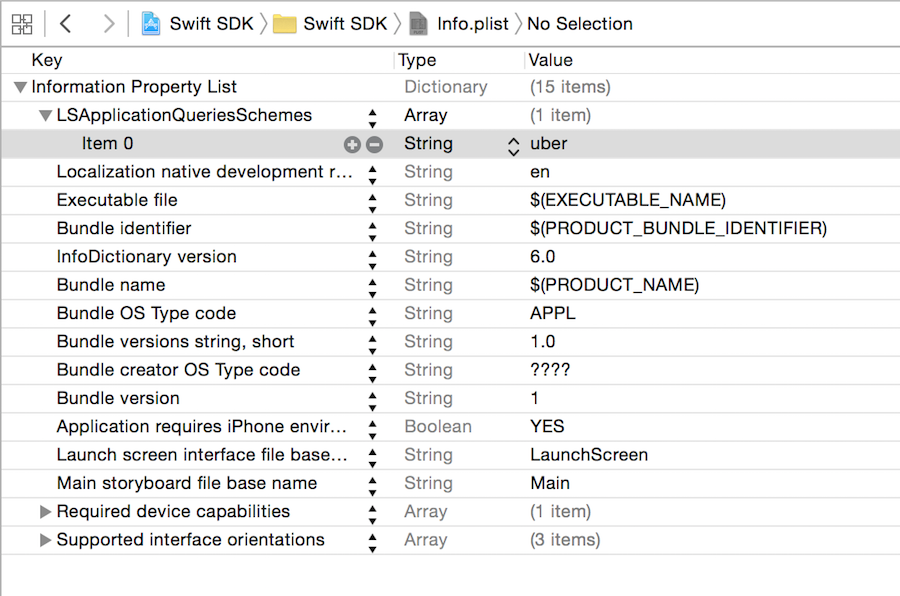
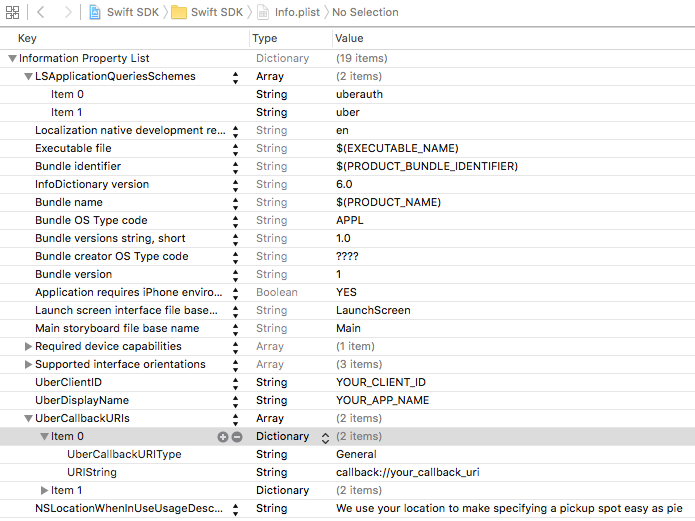
Updating sample app build steps & instructions

Changed region(s): [[0.0, 0.0, 1.0, 1.0]]

diff --git a/examples/Swift SDK/Swift SDK/NativeLoginExampleViewController.swift b/examples/Swift SDK/Swift SDK/NativeLoginExampleViewController.swift
@@ -43,6 +43,9 @@ public class NativeLoginExampleViewController: ButtonExampleViewController, Logi
         whiteLoginButton.colorStyle = .White
         
         super.init(nibName: nibNameOrNil, bundle: nibBundleOrNil)
+
+        blackLoginButton.presentingViewController = self
+        whiteLoginButton.presentingViewController = self
         
         blackLoginButton.delegate = self
         whiteLoginButton.delegate = self
@@ -97,7 +100,7 @@ public class NativeLoginExampleViewController: ButtonExampleViewController, Logi
     
     public func loginButton(button: LoginButton, didLogoutWithSuccess success: Bool) {
         if success {
-            showMessage("Saved access token!")
+            showMessage("Logout")
         }
     }
     

diff --git a/README.md b/README.md
@@ -254,7 +254,7 @@ func application(application: UIApplication, openURL url: NSURL, sourceApplicati
     let handledURL = RidesAppDelegate.sharedInstance.application(application, openURL: url, sourceApplication: sourceApplication, annotation: annotation)
     
     if (!handledURL) {
-        // Other uRL parsing logic
+        // Other URL parsing logic
     }
     
     return true
@@ -919,9 +919,14 @@ extension your_class : RideRequestViewControllerDelegate {
 
 ## Example Apps
 
-Example apps can be found in the `examples` folder. To run it, browse to the `examples` directory, run `pod install`, then open `SwiftSDK.xcworkspace` or `ObjcSDK.xcworkspace` in Xcode and run it.
+Example apps can be found in the `examples` folder. To run build them, you need to use Carthage. (A quick overview of installing Carthage can be found in the **Getting Started** section.) From inside the `examples/Swift SDK` or `examples/Obj-C SDK` folder, run:
 
-Don’t forget to set `UberClientID` with your Client ID in your `Info.plist` file.
+```
+carthage update --platform iOS
+``` 
+This will build the required dependencies. Once you do that, open `Swift SDK.xcodeproj` or `Obj-C SDK.xcodeproj` in Xcode and run it.
+
+Don’t forget to set `UberClientID`, `UberDisplayName`, and `UberCallbackURIs` in your `Info.plist` file.
 
 <p align="center">
   <img src="https://github.com/uber/rides-ios-sdk/blob/master/img/example_app.png?raw=true" alt="Example App Screenshot"/>
